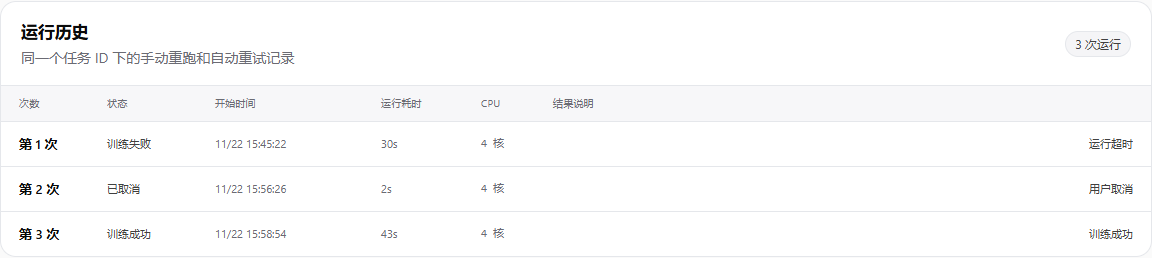
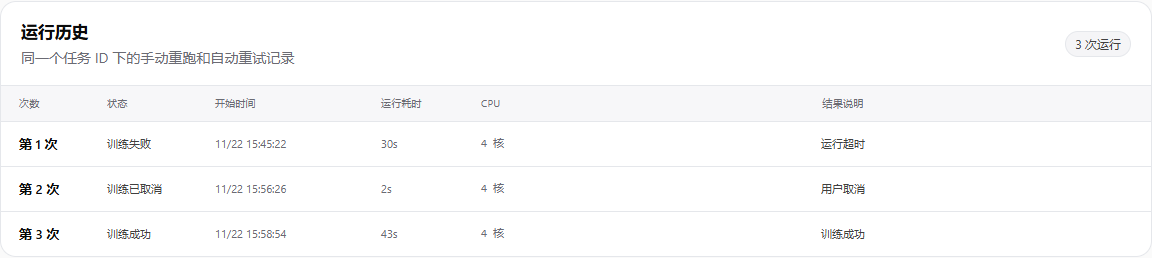
style(tasks): center attempt result column

diff --git a/frontend/src/views/TaskDetailView.vue b/frontend/src/views/TaskDetailView.vue
@@ -2488,6 +2488,10 @@ onBeforeUnmount(() => stopPolling())
   letter-spacing: 0.02em;
 }
 
+.attempt-header span:last-child {
+  text-align: center;
+}
+
 .attempt-header + .attempt-row {
   border-top: 0;
 }
@@ -2532,7 +2536,7 @@ onBeforeUnmount(() => stopPolling())
   overflow: hidden;
   color: var(--text-secondary);
   font-size: 11px;
-  text-align: right;
+  text-align: center;
   text-overflow: ellipsis;
   white-space: nowrap;
 }
